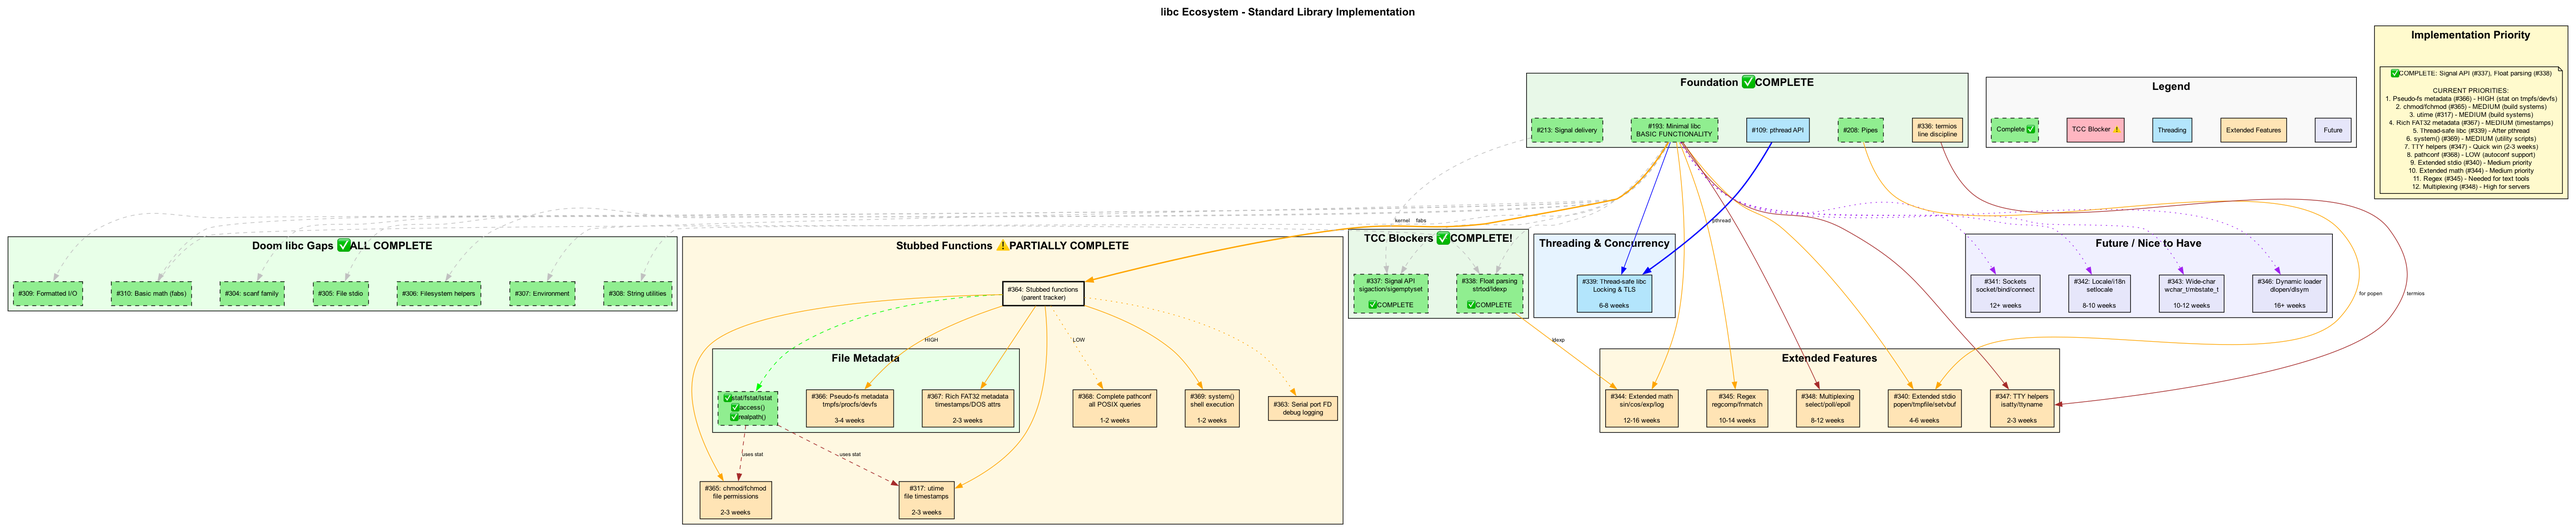
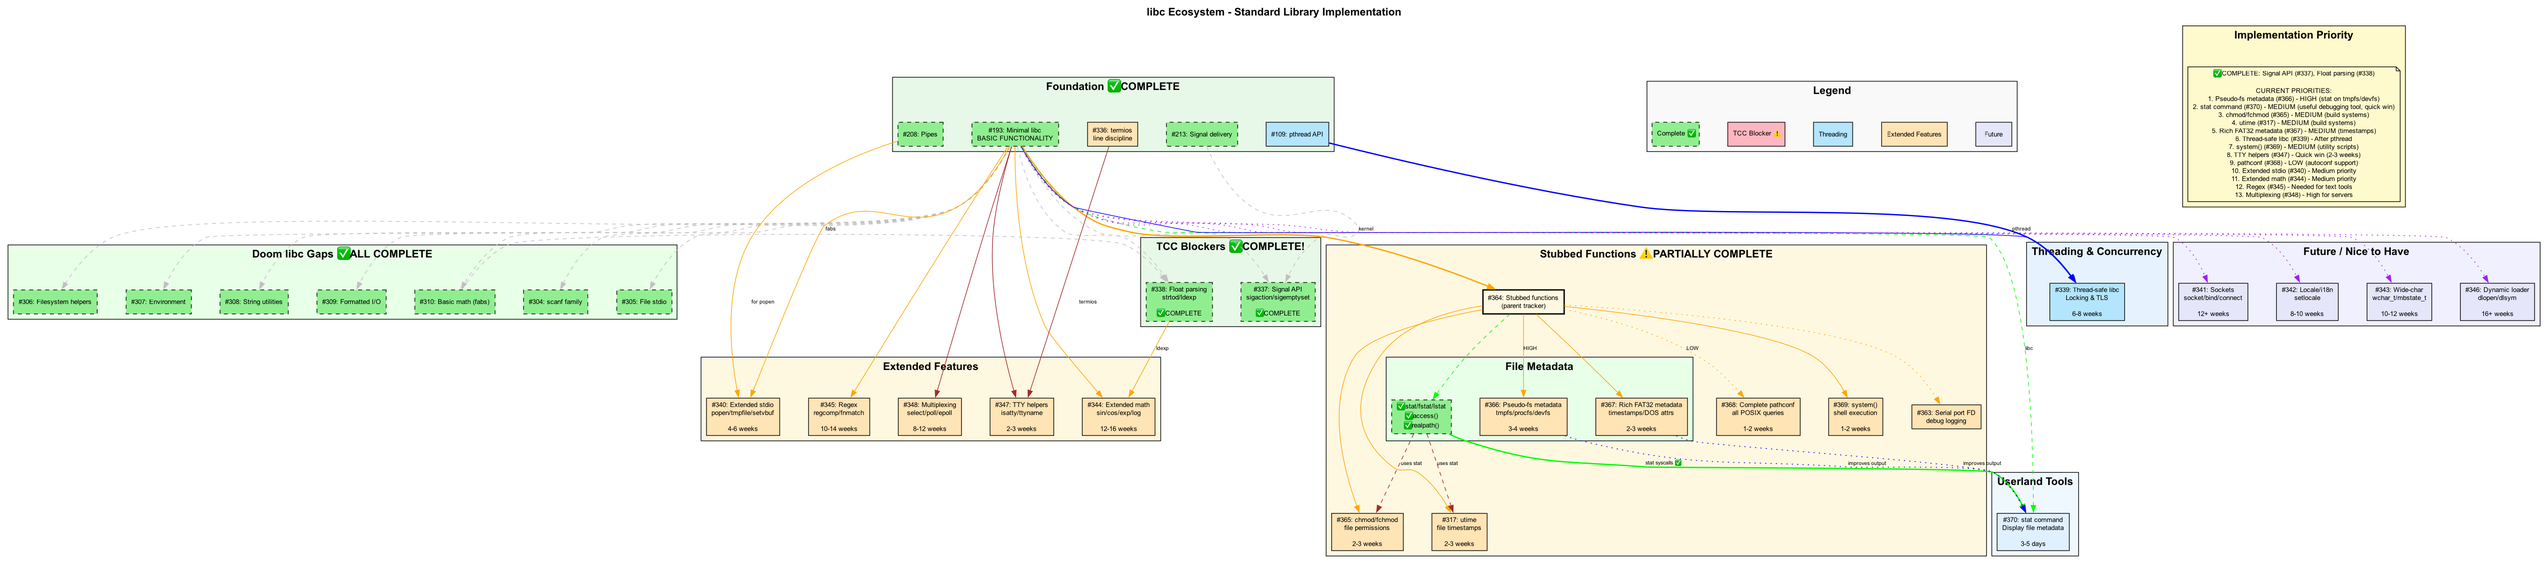
Updatedthe docs

diff --git a/docs/ISSUE_DEPENDENCY_ANALYSIS.md b/docs/ISSUE_DEPENDENCY_ANALYSIS.md
@@ -266,6 +266,12 @@ These issues form the backbone of the system and should be prioritized:
 - **#368** - Complete pathconf() for all POSIX queries
 - **#363** - Serial port file descriptor for debug logging (separate enhancement)
 
+**Userland Tooling (uses stat infrastructure)**:
+- **#370** - stat command - Display file metadata from shell
+  - Uses stat/lstat/fstat syscalls ✅ (already working)
+  - Will improve as #366 and #367 add more metadata
+  - Useful for debugging and shell scripts
+
 **Dependencies**:
 - stat infrastructure: ✅ Complete
 - #189 (FAT32 write): ✅ Complete (needed for chmod/utime)
@@ -364,12 +370,23 @@ These issues form the backbone of the system and should be prioritized:
 
 ### Phase 6: Native Compilation (Long Term)
 **Goal**: Compile on meniOS itself
-- **#190**: TCC port
-- **#191**: binutils port
+- **#190**: TCC port - ✅ **READY TO START** (all blockers resolved: #337 ✅, #338 ✅)
+- **#191**: binutils port - 🔄 **BUILD COMPLETE, TESTING IN PROGRESS**
+  - ✅ Successfully built and integrated into disk image
+  - ✅ Binaries staged: as, ld, objdump, nm, ar, ranlib, touch
+  - 🔄 Integration testing pending
+  - 📝 Documentation and sanity checks needed
 - Possibly GCC port (future)
 
-**Timeline**: 6-12 months
-**Status**: Research phase (#196 Fish shell)
+**Timeline**:
+- TCC: 4-6 weeks (ready to start!)
+- binutils testing & docs: 1-2 weeks (build complete)
+- Full native compilation: 6-12 months total
+
+**Status**:
+- ✅ All TCC blockers resolved (#337, #338 complete)
+- 🔄 binutils built and awaiting testing
+- 🎉 Major progress toward native compilation!
 
 ## 🔴 Current Blocking Relationships
 

diff --git a/docs/road/road_to_gcc.md b/docs/road/road_to_gcc.md
@@ -117,7 +117,22 @@ GNU [binutils 2.45](https://www.gnu.org/software/binutils/) has also been staged
 - ✅ #205 (I/O scheduler) - COMPLETE
 - **🎉 ALL DEPENDENCIES MET - ZERO BLOCKERS!**
 
-**Timeline Estimate:** 6-12 months
+**Status:** 🔄 **BUILD COMPLETE - TESTING IN PROGRESS**
+- ✅ Successfully built under `DOCKER_IMAGE=menios:trunk`
+- ✅ Integrated into disk image (`make userland` + `make build`)
+- ✅ Binaries staged in `/bin`: as, ld, objdump, nm, ar, ranlib, touch
+- 🔄 Integration testing: Need to boot meniOS and verify each tool works
+- 📝 Documentation pending: Usage examples, sanity check scripts
+- ❓ Decision needed: Include remaining binutils (strip, size, strings, etc.)?
+
+**Next Steps:**
+1. Boot meniOS and run integration tests for each binary
+2. Create simple workflow tests (assemble → link → inspect)
+3. Document usage and create regression test scripts
+4. Decide on remaining binutils binaries
+5. Close #191 once verified
+
+**Timeline Estimate:** Testing & docs: 1-2 weeks
 
 ## 🛣 **Critical Path to Cross-Compilation**
 

diff --git a/docs/DEPENDENCY_DIAGRAMS.md b/docs/DEPENDENCY_DIAGRAMS.md
@@ -64,6 +64,11 @@ The meniOS project has grown to over 100+ tracked issues with complex interdepen
 - ✅ #337 (Signal API) - CLOSED
 - ✅ #338 (Float parsing) - CLOSED - TCC blockers resolved! 🎉
 - ⚠ #364 (Stubbed functions) - Partially complete (stat family working)
+- 🆕 #370 (stat command) - NEW - Userland tool to display file metadata
+- ✅ #191 (binutils) - Build complete, testing in progress
+
+**Recently Closed (17 issues):**
+- #58, #137, #138, #145, #149, #151, #152, #153, #155, #167, #168, #226, #284, #285, #316, #337, #338
 
 ---
 
